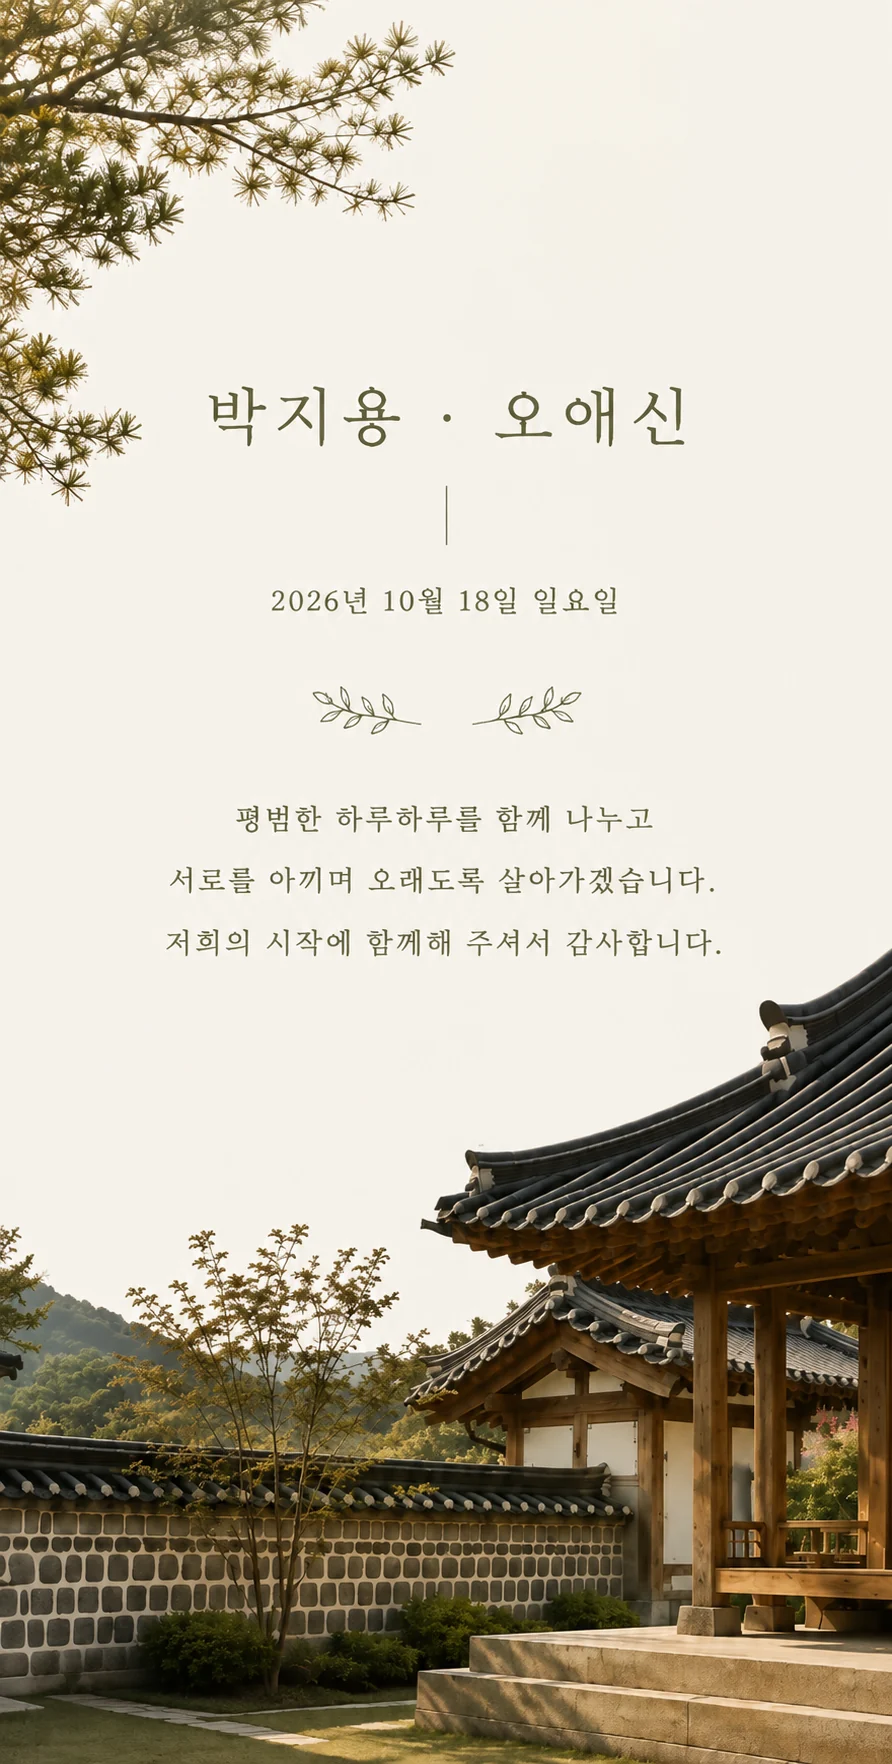
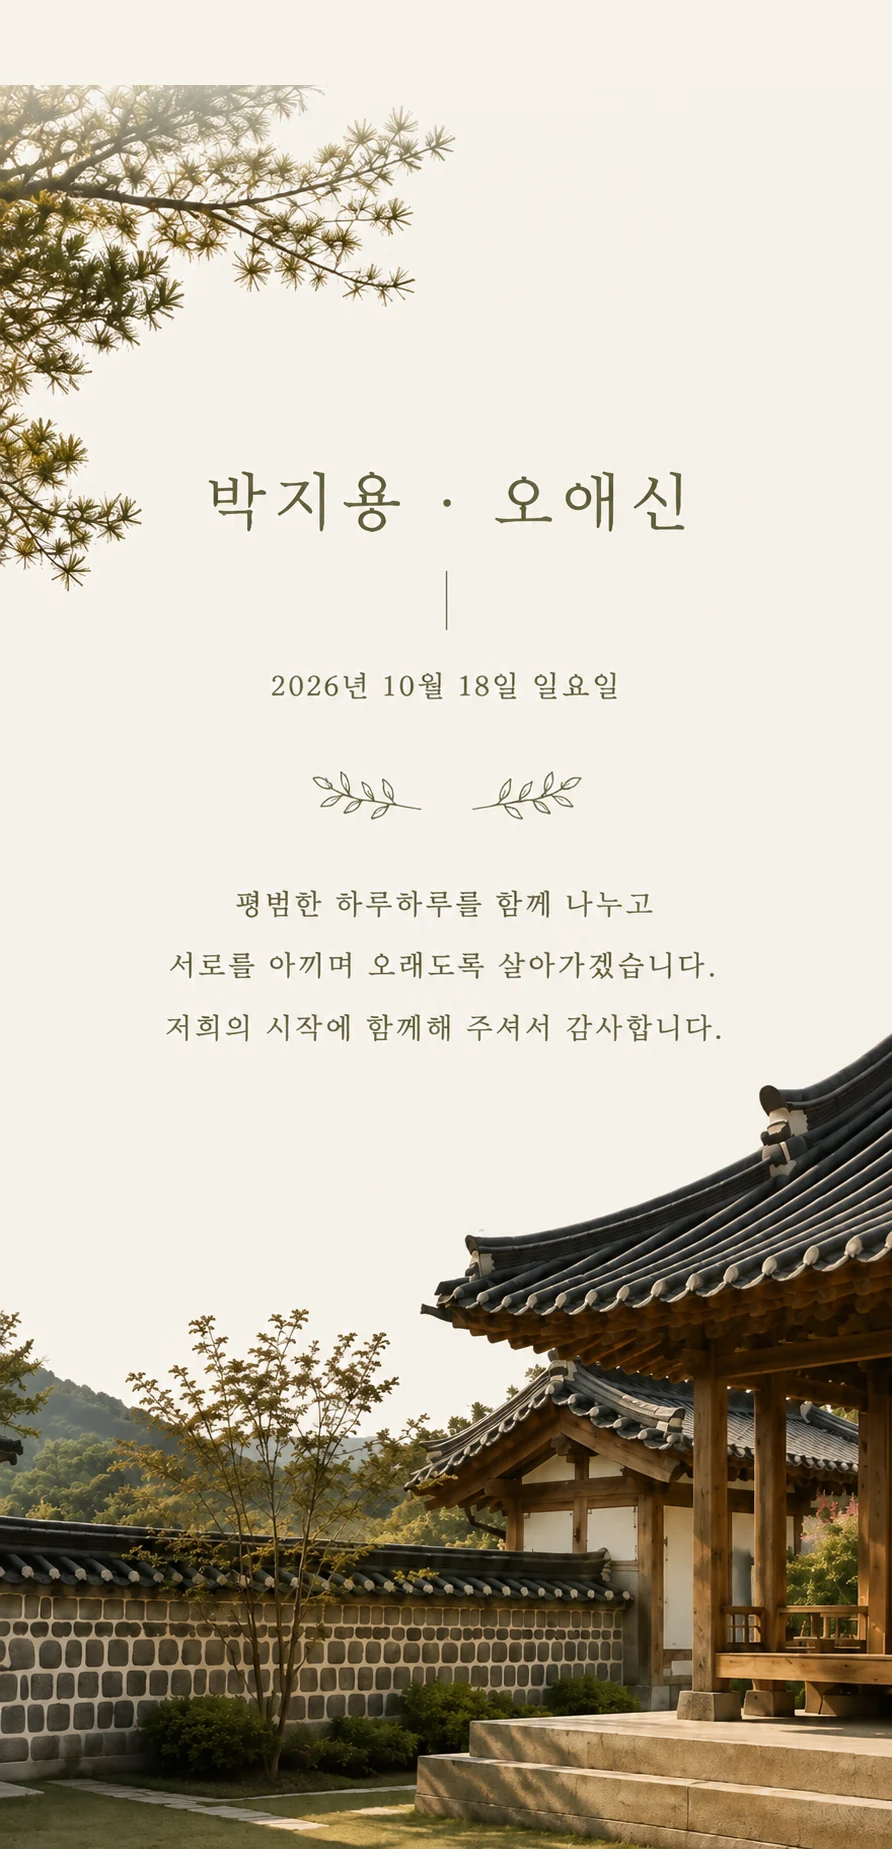
1.0.3 — 새 맺음말 이미지에도 위쪽 페이드 적용
소나무 가지가 위쪽 프레임에 맞닿아 잘린 자국을 빛에 바래는 것처럼 눕힌다.
1.0.1 때(70/170)보다 조금 넓게 여백 85px · 페이드 220px 로 잡았다. 오른쪽으로
뻗은 가지 끝은 프레임 안쪽이라 페이드가 닿지 않는다.

무손실 마스터는 그대로 두고 거기서 뽑는다. 뽑는 명령과 숫자를 조절하는 법은
design/README.md 가공 이력에 적어 두었다.

diff --git a/design/README.md b/design/README.md
@@ -24,16 +24,19 @@
 ## 가공 이력 (원본과 다른 점)
 
 - **표지**: 원본 PNG 를 webp q85 로 변환. 이 파일이 현재 남아 있는 최고 화질본입니다.
-- **푸터**: 받은 원본 PNG(892×1764)를 **무손실 webp 로만** 바꿔 마스터로 두었습니다
-  (픽셀 동일, 1.8MB → 1.3MB). 지색이 `#f6f3ec` 라 사이트 지색과 이미 같아서 색 보정은
-  하지 않았고, 소나무 가지도 끝까지 프레임 안에 들어와 있어 따로 손댈 것이 없습니다.
-  (2026-08-21 에 받은 새 이미지입니다. 그 전 이미지는 가지가 위에서 잘려 있어
-  여백을 덧대고 페이드로 이어 보이게 하는 보정이 붙어 있었는데, 이제 필요 없어
-  걷어냈습니다.) 실제 사용 파일은 여기서 이렇게 뽑습니다.
+- **푸터**: 여기 있는 `03-footer.webp` 는 받은 원본 PNG(892×1764)를 **무손실 webp 로만**
+  바꾼 마스터입니다(픽셀 동일, 1.8MB → 1.3MB). 지색이 `#f6f3ec` 라 사이트 지색과 이미
+  같아 색 보정은 하지 않았습니다.
+  실제 사용 파일은 위에 여백 85px 을 덧대고 220px 에 걸쳐 지색으로 페이드해서 뽑습니다.
+  소나무 가지가 위쪽 프레임에 맞닿아 잘린 자국을 빛에 바래는 것처럼 눕히는 처리입니다.
+  (가지 **끝**은 프레임 안에 온전히 들어와 있어 페이드가 닿지 않습니다.)
+  더 흐리게/덜 흐리게 하려면 아래 두 숫자만 함께 키우거나 줄이면 됩니다.
 
   ```sh
-  magick 03-footer.webp -strip -quality 86 -define webp:method=6 \
-    ../src/assets/sections/footer.webp
+  magick 03-footer.webp \
+    -background '#f6f3ec' -gravity north -splice 0x85 \
+    \( -size 892x220 gradient:'#f6f3ec'-none \) -gravity north -composite \
+    -strip -quality 86 -define webp:method=6 ../src/assets/sections/footer.webp
   ```
 
 - **파비콘**: 원본(1254×1254)에서 반지 주변 여백을 잘라내(900×900) 확대한 뒤

diff --git a/CHANGELOG.md b/CHANGELOG.md
@@ -1,5 +1,15 @@
 # 변경 기록
 
+## 1.0.3 — 2026-08-21
+
+새 맺음말 이미지에도 위쪽 페이드를 넣었습니다. 소나무 가지가 위쪽 프레임에
+맞닿아 잘린 자국을 빛에 바래는 것처럼 눕힙니다. 1.0.1 때(여백 70px · 페이드 170px)
+보다 조금 넓게 **여백 85px · 페이드 220px** 로 잡았습니다. 오른쪽으로 뻗은 가지
+**끝**은 프레임 안쪽에 있어 페이드가 닿지 않습니다.
+
+이미지가 892×1764 에서 892×1849 가 되었습니다. 페이드 정도를 바꾸려면
+`design/README.md` 의 뽑는 명령에서 두 숫자(85 / 220)만 함께 조절하면 됩니다.
+
 ## 1.0.2 — 2026-08-21
 
 맺음말 이미지를 새로 받은 것으로 교체했습니다(892×1764). 소나무 가지가 **끝까지
